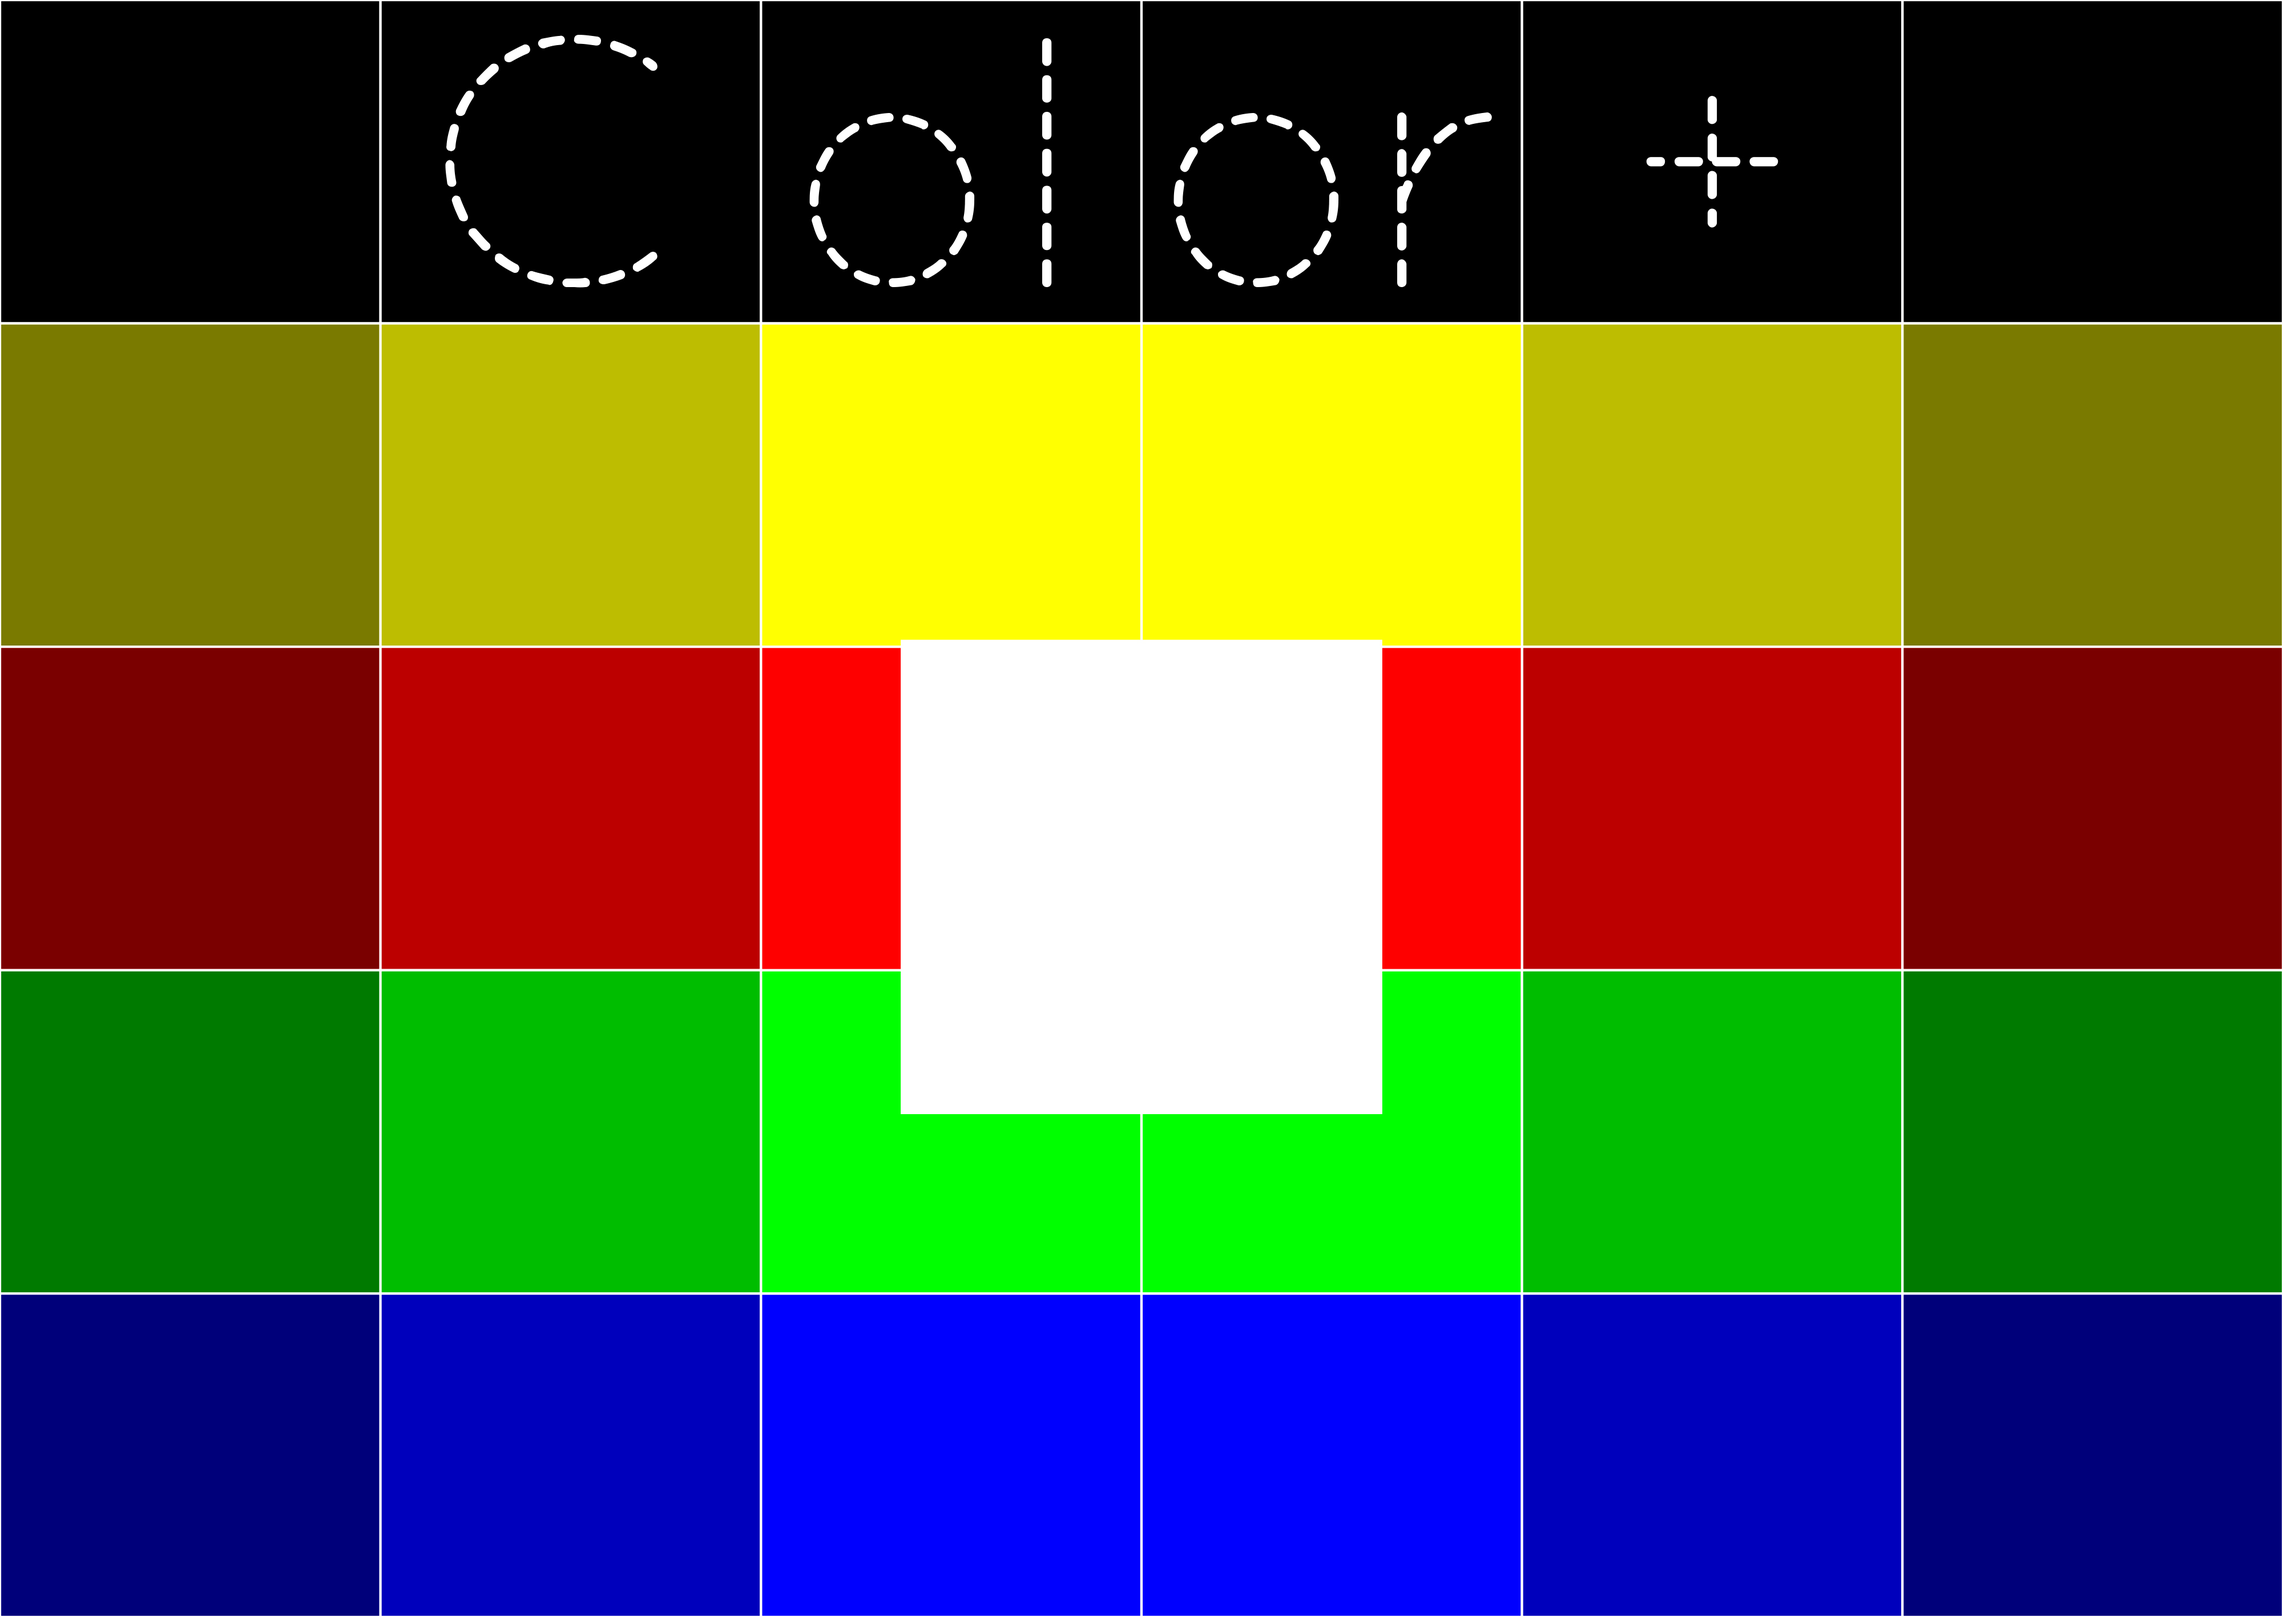
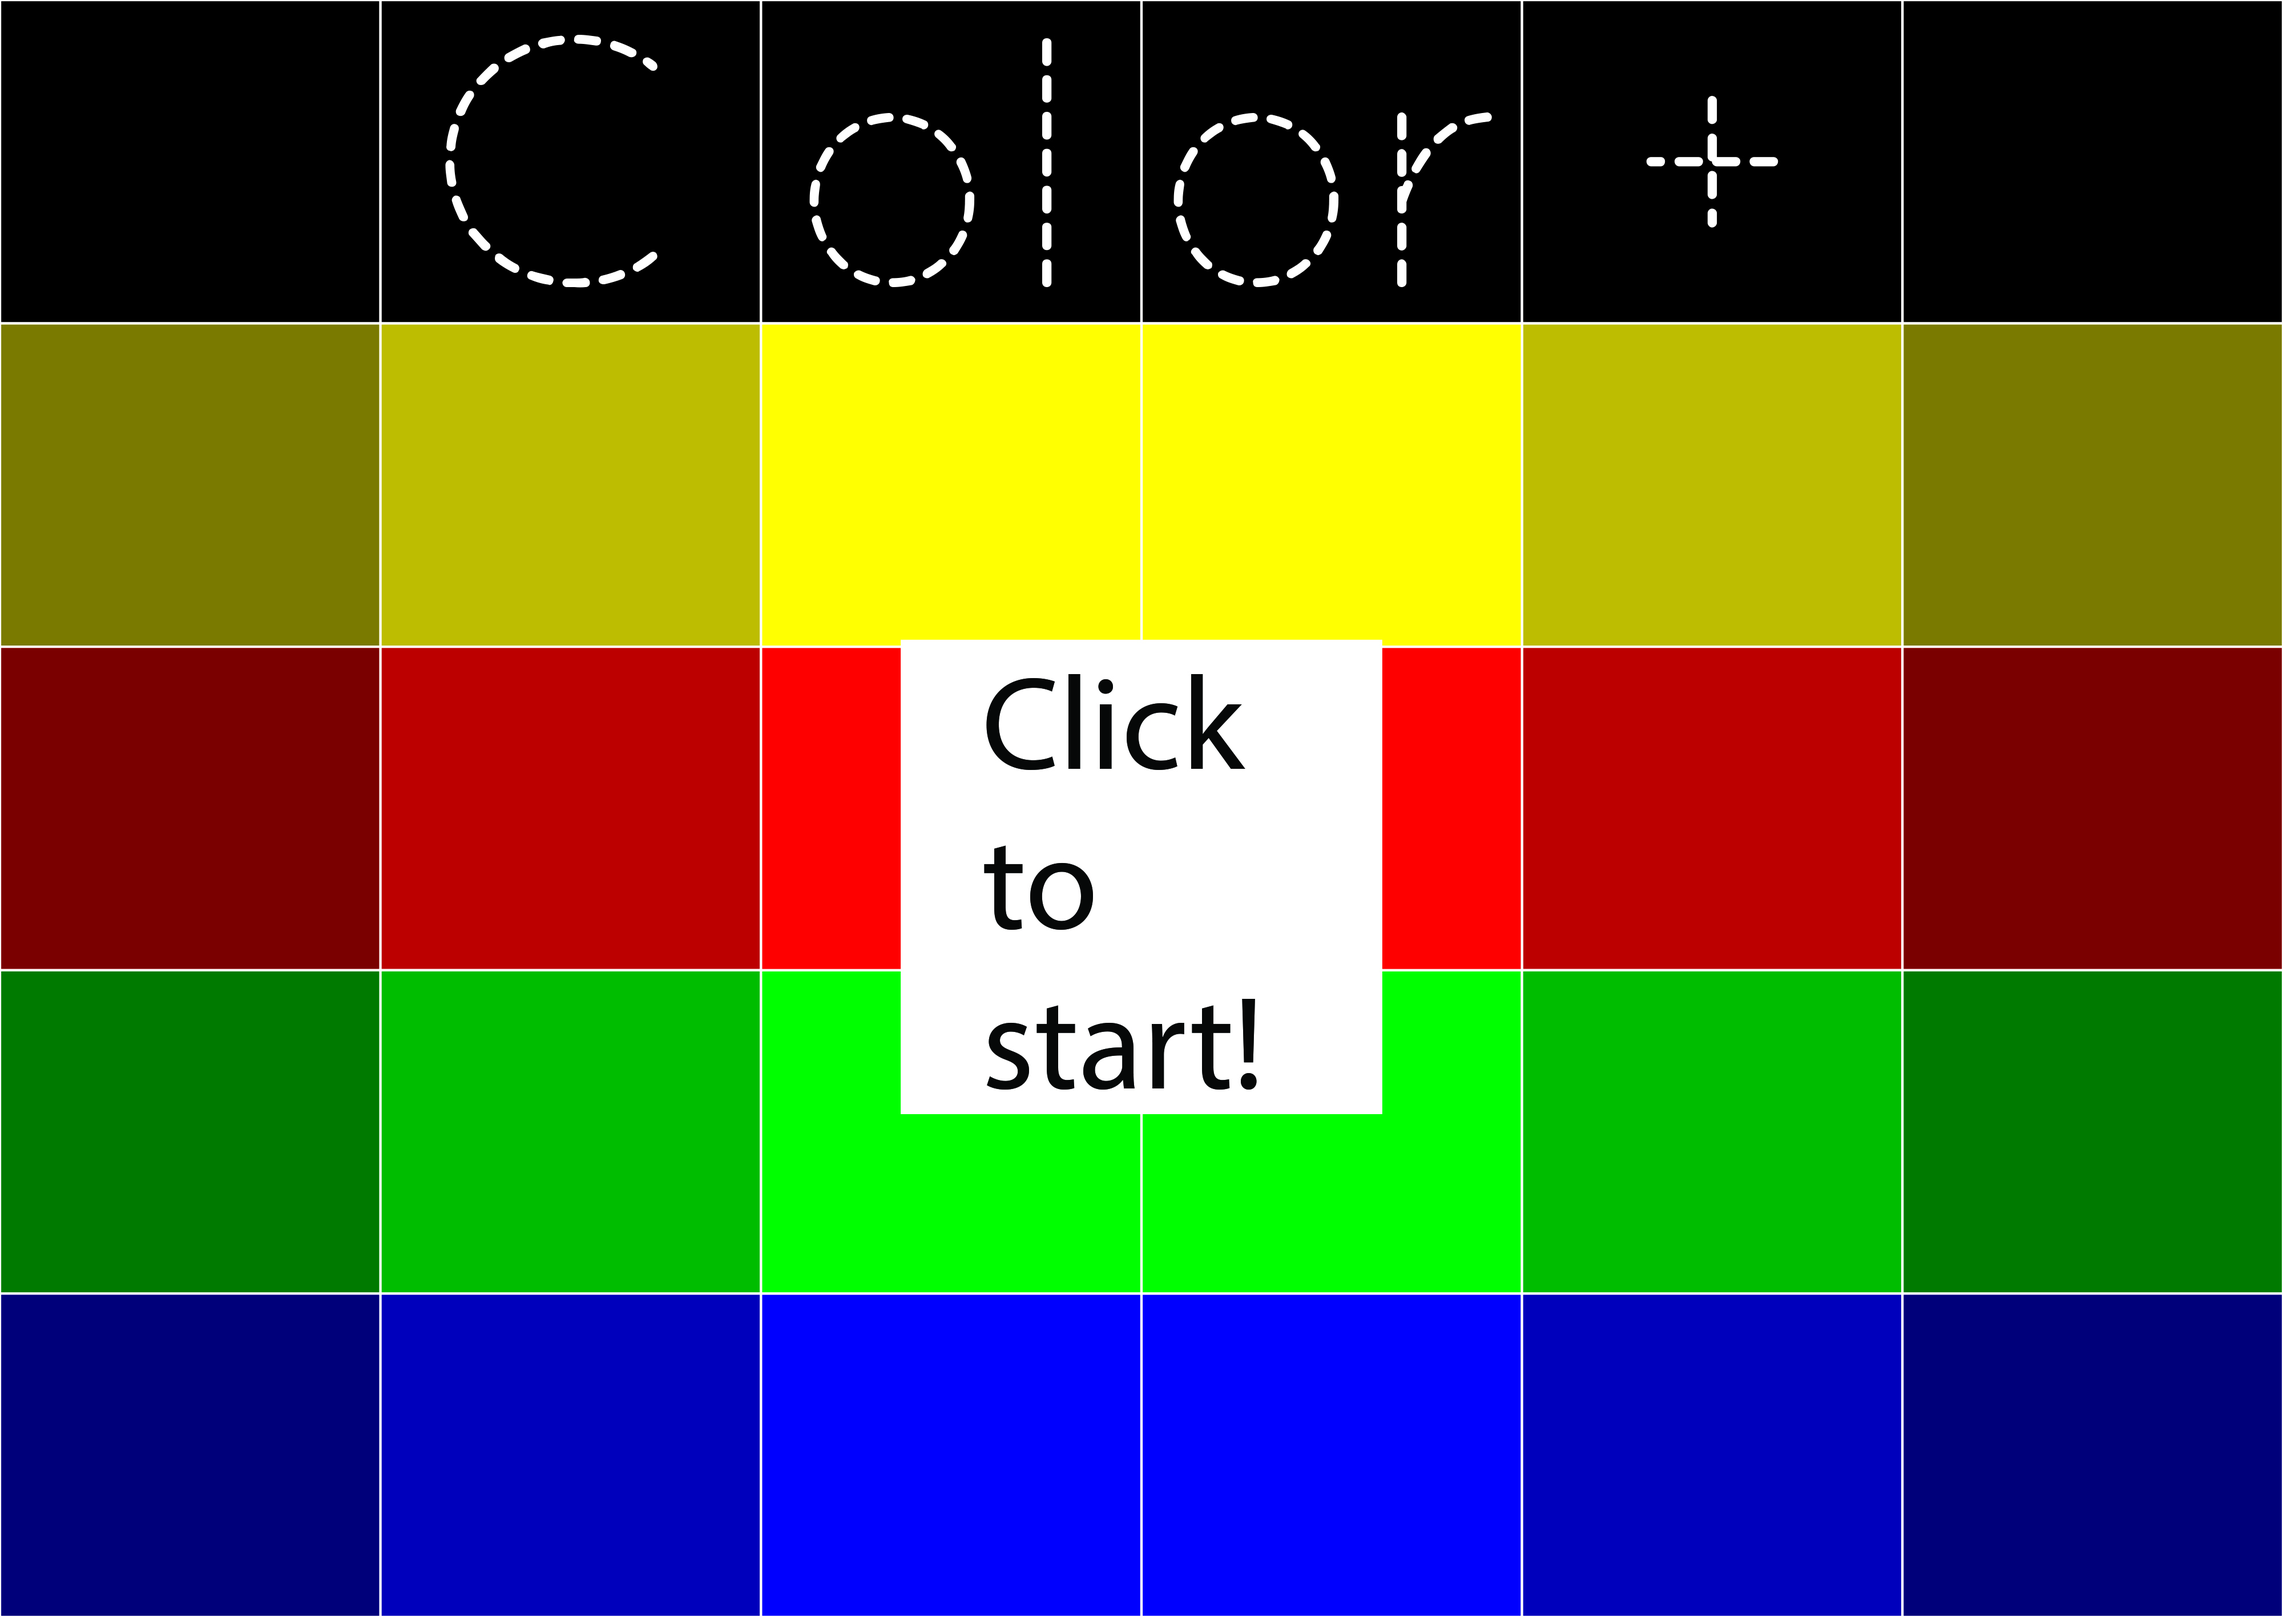
Created Start Screen

diff --git a/Teamwork/Assets/Scripts/StartScreenBehavior.cs b/Teamwork/Assets/Scripts/StartScreenBehavior.cs
@@ -1,0 +1,21 @@
+using UnityEngine;
+using System.Collections;
+
+public class StartScreenBehavior : MonoBehaviour {
+
+	// Use this for initialization
+	void Start () {
+	
+	}
+	
+	// Update is called once per frame
+	void Update () {
+	
+	}
+
+	void OnMouseDown(){
+		//Plane with an image attached is our background, if the player 
+		//clicks anywhere on screen it will activate onmousedown
+	Application.LoadLevel("GameplayScene");	
+	}
+}
